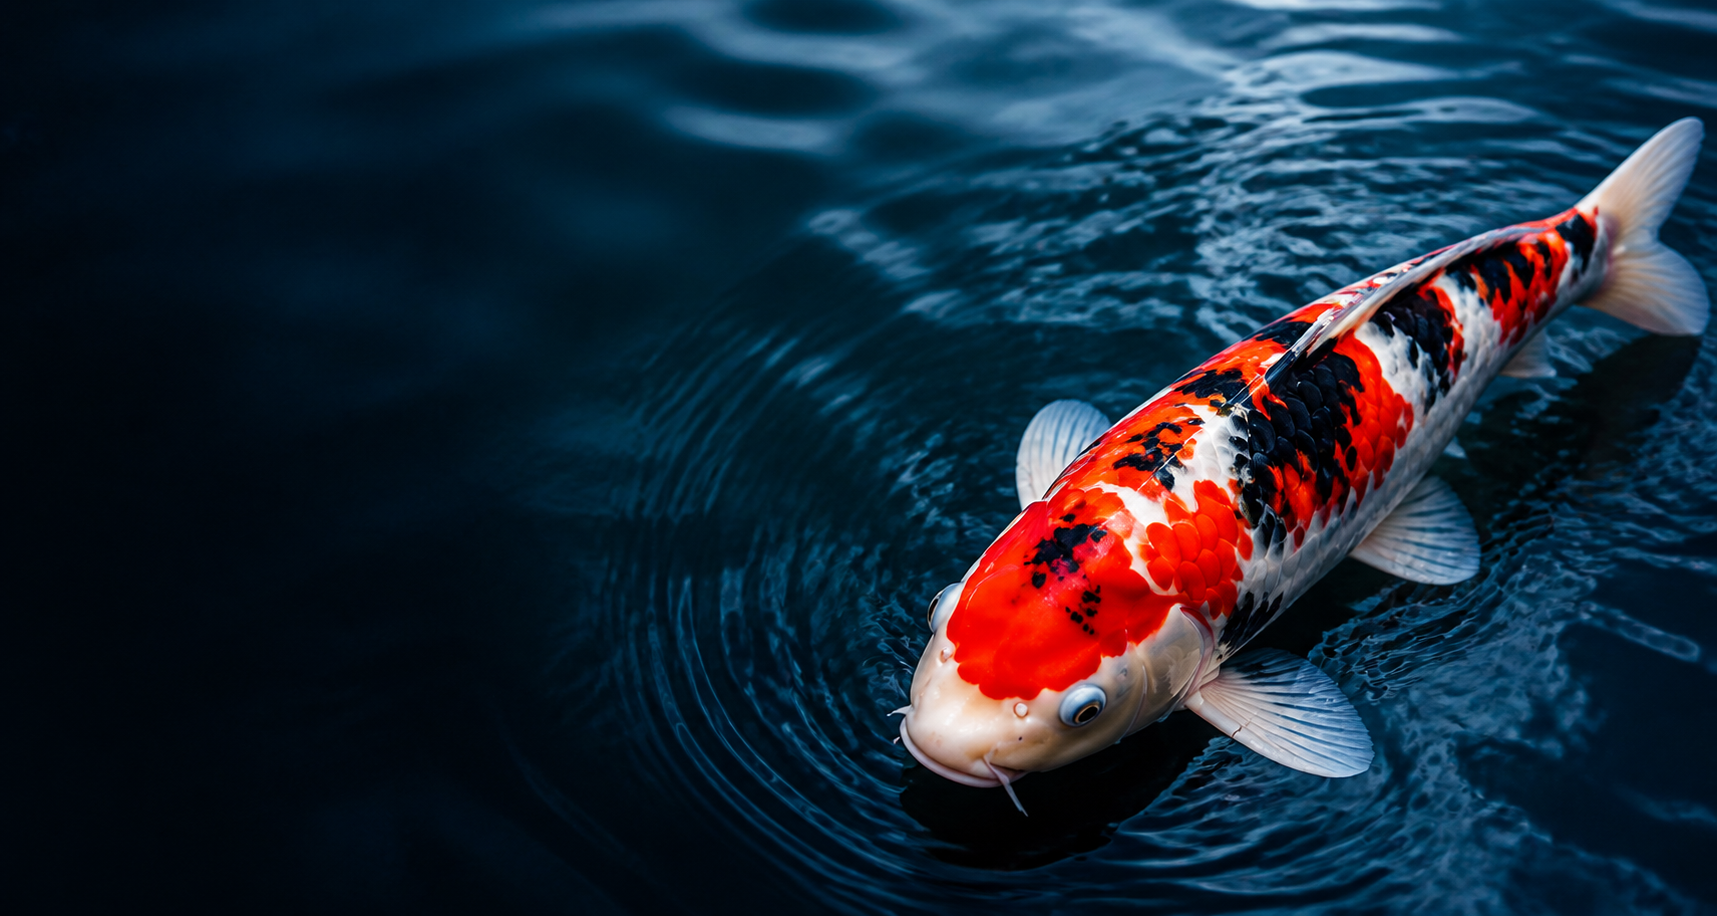
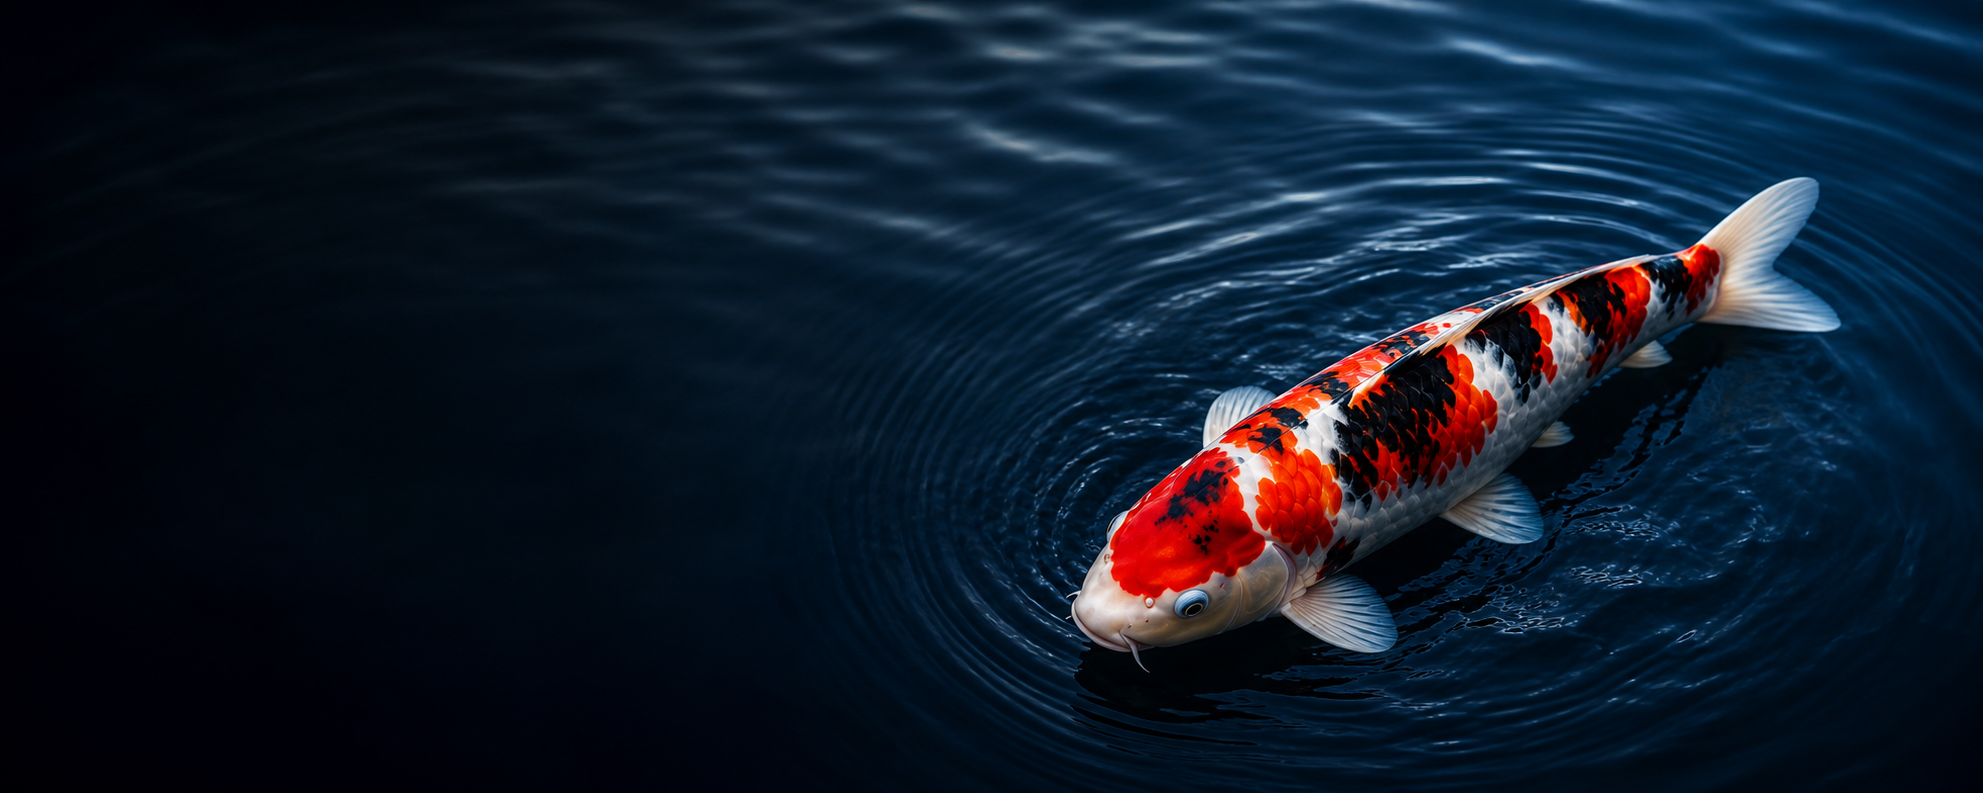
Fix header and hero image crop

diff --git a/src/pages/HomePage.tsx b/src/pages/HomePage.tsx
@@ -47,7 +47,7 @@ export function HomePage() {
         <img
           src={heroImageUrl}
           alt="水中を泳ぐ錦鯉"
-          className="absolute inset-0 h-full w-full object-cover object-center opacity-90"
+          className="absolute inset-0 h-full w-full object-cover object-[38%_center] opacity-90"
         />
         <div className="absolute inset-0 bg-gradient-to-r from-sumi via-sumi/55 to-sumi/5" />
         <div className="absolute inset-0 bg-[radial-gradient(circle_at_70%_48%,transparent_0,rgba(18,18,18,0.04)_33%,rgba(18,18,18,0.58)_100%)]" />

diff --git a/src/components/AppLayout.tsx b/src/components/AppLayout.tsx
@@ -21,7 +21,6 @@ export function AppLayout() {
       <header className="sticky top-0 z-40 border-b border-black/10 bg-white/95 backdrop-blur">
         <div className="mx-auto flex max-w-[1380px] items-center justify-between px-5 py-3 lg:px-8">
           <Link to="/" className="group flex items-center gap-3" onClick={() => setOpen(false)}>
-            <KoiSeal />
             <span>
               <span className="block font-serif text-2xl font-semibold leading-none md:text-3xl">
                 {siteInfo.name}
